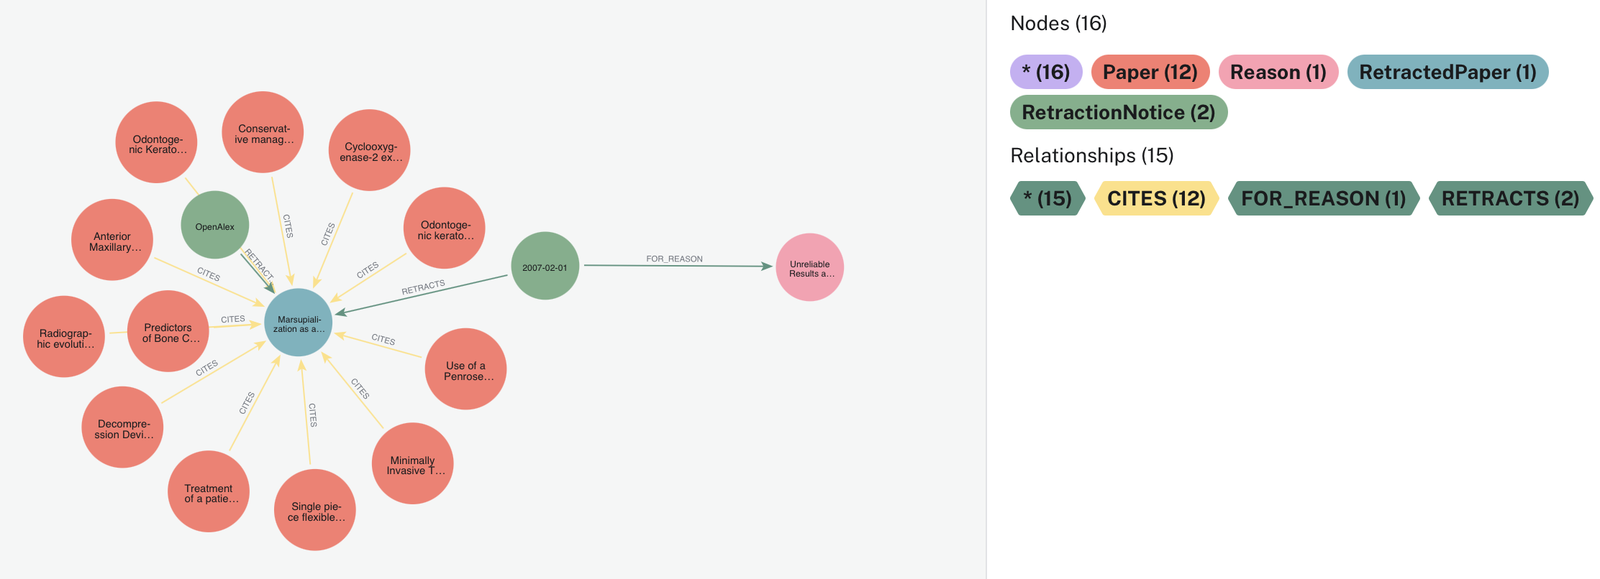
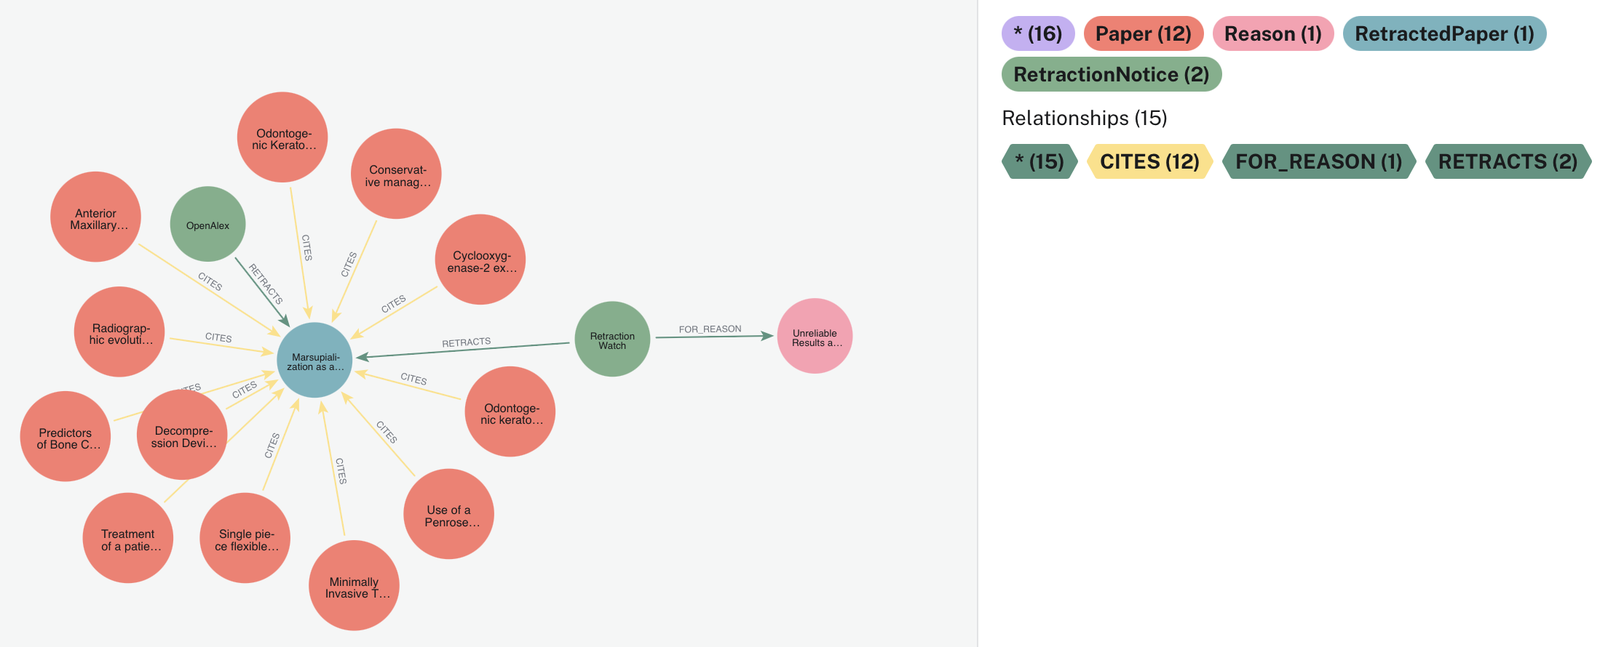
docs: clearer Neo4j screenshot in the graph model section, with its query

Changed region(s): [[0.0, 0.1244, 0.5312, 0.9948], [0.625, 0.0, 1.0, 0.2798], [0.625, 0.3109, 1.0, 0.3731]]

diff --git a/README.md b/README.md
@@ -224,9 +224,9 @@ The full version, with every property, an example on the sample graph and all ou
 ![Neo4j Browser: one retracted paper, its notices, its reason and 12 zombie citations](docs/screenshots/neo4j-zombie-citations.png)
 
 *Blue: the retracted paper. Red: 12 of the papers that cited it after its retraction (yellow `CITES` arrows).
-Green: its two retraction notices, one from Retraction Watch (dated 2007-02-01) and one from OpenAlex. Pink: the
-reason given by Retraction Watch. OpenAlex only says that a paper is retracted, with no date and no reason, so its
-notice has neither.*
+Green: its two retraction notices, one from Retraction Watch and one from OpenAlex. Pink: the reason given by
+Retraction Watch. OpenAlex only says that a paper is retracted, with no date and no reason, so its notice has
+neither.*
 
 <details>
 <summary>The query behind this picture</summary>
